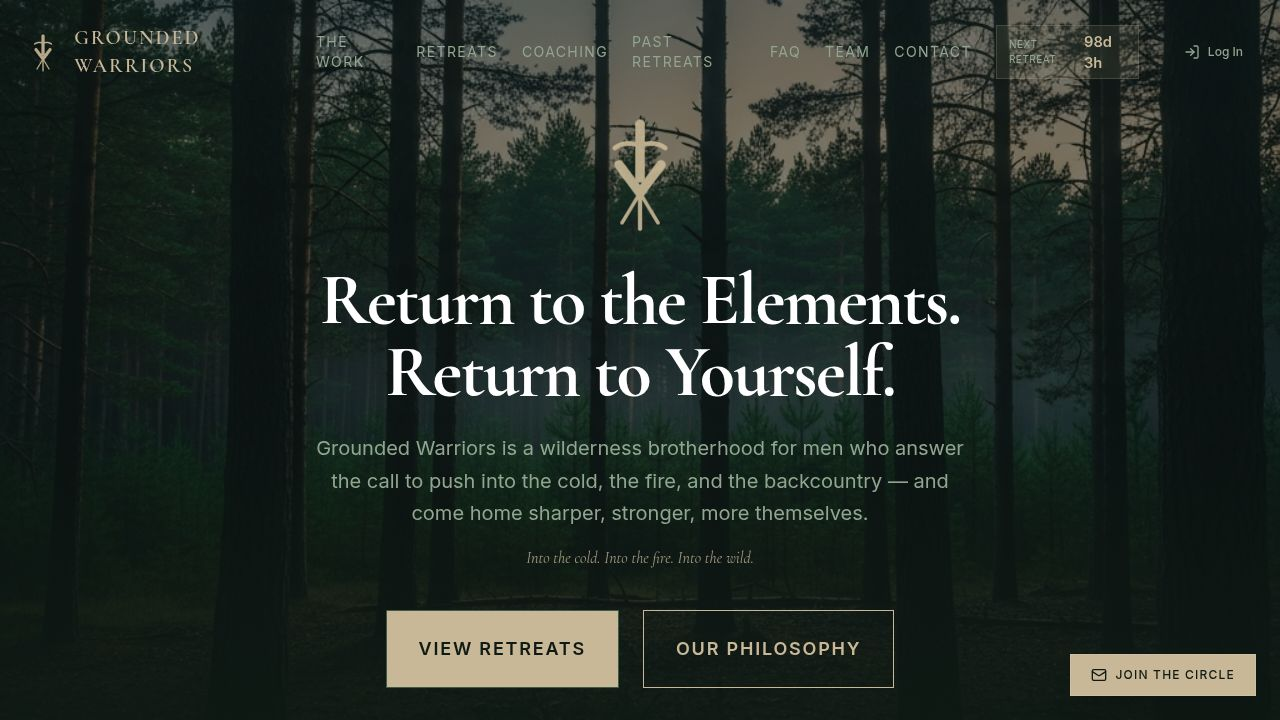
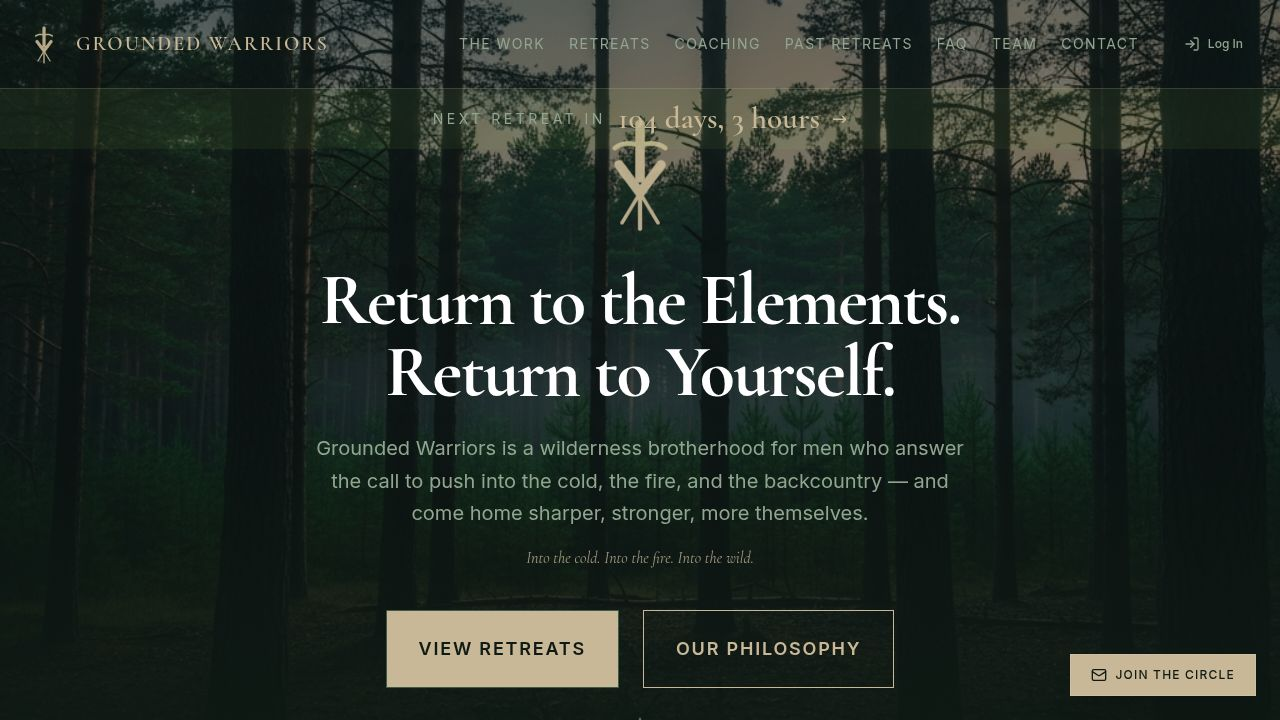
Update retreat dates and pricing for the Equinox Gathering event
Adjusts the 'Equinox Gathering' retreat details, including its date to October 9-11, 2026, and its pricing to $499 full / $250 deposit, across the client-side data, layout, and home components, as well as the server-side retreat data.

Replit-Commit-Author: Agent
Replit-Commit-Session-Id: 3b11835e-a448-4b43-98cc-5f2e266cdaf2
Replit-Commit-Checkpoint-Type: full_checkpoint
Replit-Commit-Event-Id: e4d32e72-d694-40fe-ba49-3b4a8f93585e
Replit-Commit-Screenshot-Url: https://storage.googleapis.com/screenshot-production-us-central1/96d1a123-5730-4971-8300-b20052ef610e/3b11835e-a448-4b43-98cc-5f2e266cdaf2/q3XCW76
Replit-Helium-Checkpoint-Created: true

diff --git a/client/src/pages/home.tsx b/client/src/pages/home.tsx
@@ -135,7 +135,7 @@ export default function Home() {
     return () => clearTimeout(timer);
   }, []);
 
-  const nextRetreatDate = new Date("2026-10-02");
+  const nextRetreatDate = new Date("2026-10-09");
 
   return (
     <Layout>
@@ -349,7 +349,7 @@ export default function Home() {
           <div className="container px-6 mx-auto text-center">
             <motion.div {...fadeIn}>
               <h2 className="text-primary text-sm md:text-base uppercase tracking-[0.3em] mb-6 font-semibold">Next Retreat</h2>
-              <h3 className="font-serif text-4xl md:text-5xl lg:text-6xl text-white mb-12">Equinox Gathering — October 2–4, 2026</h3>
+              <h3 className="font-serif text-4xl md:text-5xl lg:text-6xl text-white mb-12">Equinox Gathering — October 9–11, 2026</h3>
               <div className="w-full flex items-center justify-center">
                 <Countdown targetDate={nextRetreatDate} />
               </div>

diff --git a/server/retreats.ts b/server/retreats.ts
@@ -19,7 +19,7 @@ export interface RetreatContainer {
 export const RETREATS: RetreatContainer[] = [
   { id: 1, name: "Winter Descent",   date: "February 2026",            isPast: true  },
   { id: 2, name: "Spring Awakening", date: "May 2026",                 isPast: true  },
-  { id: 3, name: "Equinox Gathering", date: "October 2 – 4, 2026",     isPast: false },
+  { id: 3, name: "Equinox Gathering", date: "October 9 – 11, 2026",    isPast: false },
   { id: 4, name: "Spring Awakening", date: "April 30 – May 3, 2027",   isPast: false },
   { id: 5, name: "Guatemala Expedition", date: "February 2027",         isPast: false },
 ];

diff --git a/client/src/lib/data.ts b/client/src/lib/data.ts
@@ -138,11 +138,11 @@ export const retreats = [
   {
     id: 3,
     title: "Equinox Gathering",
-    date: "October 2 – 4, 2026",
+    date: "October 9 – 11, 2026",
     location: "Marmora, ON",
     image: driftwoodForest,
     depositAmount: 250,
-    fullAmount: 555,
+    fullAmount: 499,
   },
   {
     id: 4,

diff --git a/client/src/components/layout.tsx b/client/src/components/layout.tsx
@@ -33,7 +33,7 @@ export function Navbar() {
     { href: "/contact", label: "Contact" },
   ];
 
-  const nextRetreatDate = new Date("2026-10-02");
+  const nextRetreatDate = new Date("2026-10-09");
   const isHomePage = location === "/";
 
   return (
